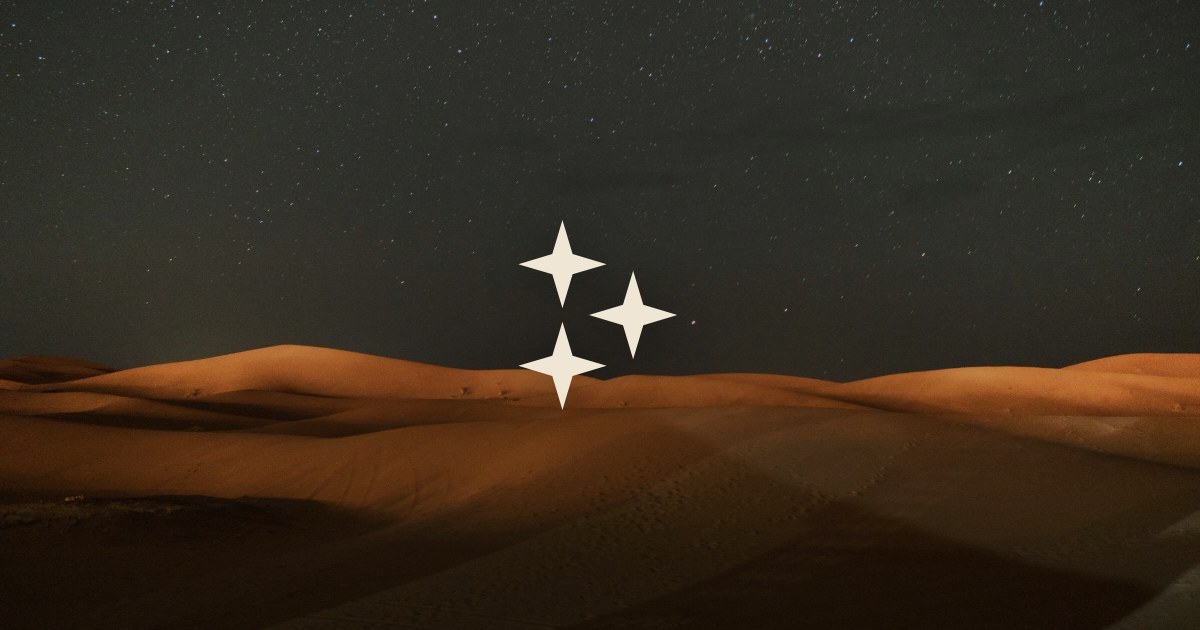
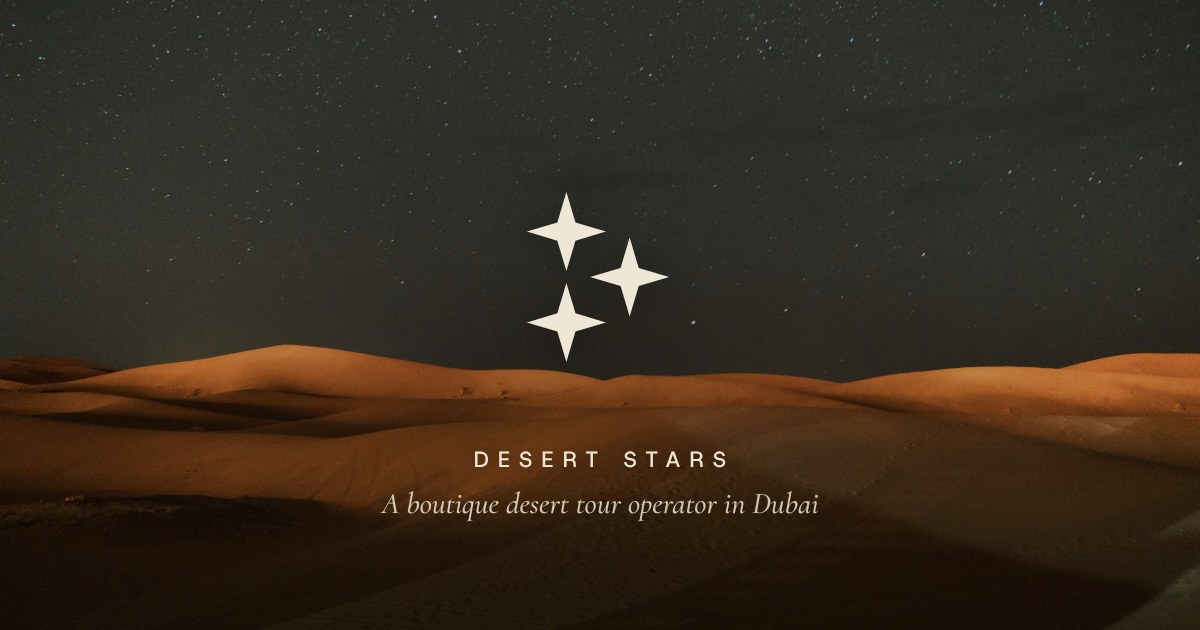
Menu rebuilt, WhatsApp removed, cycling hero headline, boutique share copy
- Menu is a client component: closes on link, Esc and route change; locks page scroll; smaller type so every item fits
- WhatsApp removed from header, contact links, enquiry form, tour pages and legal copy
- Hero headline cycles: Desert Stars, Born in the dunes, Local boutique, Desert tour operator...
- Title, description and share image use 'boutique desert tour operator'

Claude-Session: https://claude.ai/code/session_016tmrtv4VSJkVzpbkbBxgW5

diff --git a/components/concepts/v4/Chrome.tsx b/components/concepts/v4/Chrome.tsx
@@ -1,7 +1,8 @@
 import Link from "next/link";
 import { Host_Grotesk, VT323, Cormorant_Garamond } from "next/font/google";
 import Pic from "@/components/Pic";
-import { site, waLink } from "@/data/site";
+import Menu from "./Menu";
+import { site } from "@/data/site";
 
 /* Shared chrome for Variation 4 (homepage + about): fonts, stylesheet, header with MENU overlay,
    staircase steps, sticky centre column, giant contact links and footer. */
@@ -13,7 +14,6 @@ const serif = Cormorant_Garamond({ subsets: ["latin"], weight: ["400", "500"], s
 export const fontVars = `${sans.variable} ${mono.variable} ${serif.variable}`;
 export const shell = `${fontVars} v4 min-h-screen overflow-x-clip bg-[#0c0a08] font-[family-name:var(--v4-sans)] text-[#efe6d6] antialiased selection:bg-[#efe6d6] selection:text-[#0c0a08]`;
 export const pad = "px-5 md:px-10";
-export const wa = waLink("Hello Desert Stars, I'd like to plan an evening in the desert.");
 
 export function V4Style() {
   return (
@@ -28,7 +28,7 @@ export function V4Style() {
         .v4 .v4-link { background-image: linear-gradient(currentColor, currentColor); background-size: 0% 1px; background-position: 0 100%; background-repeat: no-repeat; transition: background-size .5s cubic-bezier(.16,1,.3,1); }
         .v4 .v4-link:hover, .v4 .v4-link:focus-visible { background-size: 100% 1px; }
         .v4 .v4-head { mix-blend-mode: difference; }
-        .v4 .v4-head:has(details[open]) { mix-blend-mode: normal; }
+        .menu-open .v4 .v4-head, .v4 .v4-head:has([aria-expanded="true"]) { mix-blend-mode: normal; }
         .v4 details > summary { list-style: none; }
         .v4 details > summary::-webkit-details-marker { display: none; }
         .v4 details[open] .v4-closed, .v4 details:not([open]) .v4-opened { display: none; }
@@ -65,38 +65,13 @@ export function V4Style() {
   );
 }
 
-const menu: [string, string][] = [
-  ["Home", "/"],
-  ["Experiences", "/experiences"],
-  ["Desert safaris", "/experiences#desert"],
-  ["Journal", "/journal"],
-  ["About", "/about"],
-  ["Enquire", "/enquire"],
-];
 
 /* ── M1 Header + full-screen MENU ─────────────────────── */
 export function Header() {
   return (
     <header className="v4-head fixed inset-x-0 top-0 z-50 flex items-start justify-between px-5 pt-5 md:px-[27px] md:pt-[26px]">
-      <Link href="/" className="flex items-center gap-3 text-[#efe6d6] transition-opacity hover:opacity-80 md:gap-4" aria-label="Desert Stars, home"><svg viewBox="0 0 37 43" className="h-[34px] w-auto shrink-0 md:h-[44px]" fill="currentColor" aria-hidden="true"><path d="M10 0L12.3 7.7L20 10L12.3 12.3L10 20L7.7 12.3L0 10L7.7 7.7ZM10 23L12.3 30.7L20 33L12.3 35.3L10 43L7.7 35.3L0 33L7.7 30.7ZM26 11.5L28.3 19.2L36 21.5L28.3 23.8L26 31.5L23.7 23.8L16 21.5L23.7 19.2Z" /></svg><span aria-hidden="true" className="h-[26px] w-px bg-[#efe6d6]/60 md:h-[32px]" /><span className="whitespace-nowrap font-[family-name:var(--v4-sans)] text-[12px] font-medium uppercase leading-none tracking-[0.32em] md:text-[15px] md:tracking-[0.36em]">Desert Stars</span></Link>
-      <div className="flex items-start gap-2">
-        <a href={wa} target="_blank" rel="noopener noreferrer" className="v4-m v4-box hover:opacity-80">{"{WhatsApp}"}</a>
-        <details>
-          <summary className="v4-m v4-box relative z-10 cursor-pointer"><span className="v4-closed">Menu</span><span className="v4-opened">Close</span></summary>
-          <div className="fixed inset-0 flex flex-col justify-between overflow-y-auto bg-[#0c0a08] px-5 pb-8 pt-24 text-[#efe6d6] md:px-10">
-            <nav aria-label="Menu" className="flex flex-col">
-              {menu.map(([l, h]) => (
-                <Link key={h} href={h} className="v4-g text-[#efe6d6]/45 transition-colors hover:text-[#efe6d6]">{l}</Link>
-              ))}
-            </nav>
-            <div className="v4-m mt-10 flex flex-wrap justify-between gap-4 text-[15px]">
-              <a href={site.phoneHref} className="v4-link">{site.phone}</a>
-              <a href={`mailto:${site.email}`} className="v4-link">{site.email}</a>
-              <span>{site.hours}</span>
-            </div>
-          </div>
-        </details>
-      </div>
+      <Link href="/" className="relative z-[60] flex items-center gap-3 text-[#efe6d6] transition-opacity hover:opacity-80 md:gap-4" aria-label="Desert Stars, home"><svg viewBox="0 0 37 43" className="h-[34px] w-auto shrink-0 md:h-[44px]" fill="currentColor" aria-hidden="true"><path d="M10 0L12.3 7.7L20 10L12.3 12.3L10 20L7.7 12.3L0 10L7.7 7.7ZM10 23L12.3 30.7L20 33L12.3 35.3L10 43L7.7 35.3L0 33L7.7 30.7ZM26 11.5L28.3 19.2L36 21.5L28.3 23.8L26 31.5L23.7 23.8L16 21.5L23.7 19.2Z" /></svg><span aria-hidden="true" className="h-[26px] w-px bg-[#efe6d6]/60 md:h-[32px]" /><span className="whitespace-nowrap font-[family-name:var(--v4-sans)] text-[12px] font-medium uppercase leading-none tracking-[0.32em] md:text-[15px] md:tracking-[0.36em]">Desert Stars</span></Link>
+      <Menu />
     </header>
   );
 }
@@ -175,7 +150,6 @@ export function Column({ id, label, count, items, discover = "/experiences", dis
 
 /* ── M11 Giant stacked contact links ──────────────────── */
 const giant = [
-  { label: "WhatsApp", href: wa, note: "Reply within 30 min", ext: true },
   { label: "Call", href: site.phoneHref, note: site.phone, ext: false },
   { label: "Email", href: `mailto:${site.email}`, note: site.email, ext: false },
   { label: "Enquire", href: "/enquire", note: "Plan your date", ext: false },

diff --git a/components/EnquiryForm.tsx b/components/EnquiryForm.tsx
@@ -9,7 +9,7 @@ const btn = "v4-m inline-flex h-[52px] items-center px-5 text-[19px] transition-
 
 export default function EnquiryForm() {
   const [exp, setExp] = useState("");
-  const [sent, setSent] = useState<"" | "wa" | "mail">("");
+  const [sent, setSent] = useState(false);
   const ref = useRef<HTMLFormElement>(null);
   useEffect(() => {
     const s = new URLSearchParams(window.location.search).get("experience");
@@ -30,19 +30,16 @@ export default function EnquiryForm() {
     ].filter(Boolean).join("\n");
   }
 
-  function send(via: "wa" | "mail") {
+  function send() {
     const form = ref.current;
     if (!form || !form.reportValidity()) return;
     const body = compose(form);
-    const url = via === "wa"
-      ? `https://wa.me/${site.whatsapp}?text=${encodeURIComponent(body)}`
-      : `mailto:${site.email}?subject=${encodeURIComponent("Desert Stars enquiry")}&body=${encodeURIComponent(body)}`;
-    setSent(via);
-    window.open(url, via === "wa" ? "_blank" : "_self");
+    setSent(true);
+    window.location.href = `mailto:${site.email}?subject=${encodeURIComponent("Desert Stars enquiry")}&body=${encodeURIComponent(body)}`;
   }
 
   return (
-    <form ref={ref} onSubmit={(e) => { e.preventDefault(); send("wa"); }} className="grid gap-x-8 gap-y-9 sm:grid-cols-2">
+    <form ref={ref} onSubmit={(e) => { e.preventDefault(); send(); }} className="grid gap-x-8 gap-y-9 sm:grid-cols-2">
       <label className="sm:col-span-2"><span className={lab}>Experience</span>
         <select name="experience" value={exp} onChange={(e) => setExp(e.target.value)} className={field}>
           <option value="">Not sure yet, please advise</option>
@@ -60,12 +57,11 @@ export default function EnquiryForm() {
         <textarea name="notes" rows={3} className={field} placeholder="Pick-up area, dietary needs, celebrations" />
       </label>
       <div className="flex flex-wrap gap-2 pt-2 sm:col-span-2">
-        <button type="submit" className={`${btn} bg-[#efe6d6] text-[#0c0a08] hover:bg-[#efe6d6]/85`}>{"{Send on WhatsApp}"}</button>
-        <button type="button" className={`${btn} border border-[#efe6d6]/60 text-[#efe6d6] hover:bg-[#efe6d6] hover:text-[#0c0a08]`} onClick={() => send("mail")}>{"{Send by email}"}</button>
+        <button type="submit" className={`${btn} bg-[#efe6d6] text-[#0c0a08] hover:bg-[#efe6d6]/85`}>{"{Send enquiry}"}</button>
+        <a href={site.phoneHref} className={`${btn} border border-[#efe6d6]/60 text-[#efe6d6] hover:bg-[#efe6d6] hover:text-[#0c0a08]`}>{"{Or call us}"}</a>
       </div>
       <p role="status" aria-live="polite" className="min-h-[1.5em] text-[14px] leading-[1.5] text-[#efe6d6]/80 sm:col-span-2">
-        {sent === "wa" && "WhatsApp is opening with your enquiry. Press send there and we'll reply within 30 minutes."}
-        {sent === "mail" && "Your email app is opening with your enquiry ready to send."}
+        {sent && "Your email app is opening with your enquiry ready to send."}
       </p>
     </form>
   );

diff --git a/app/(site)/experiences/[slug]/page.tsx b/app/(site)/experiences/[slug]/page.tsx
@@ -4,7 +4,7 @@ import { notFound } from "next/navigation";
 import Pic from "@/components/Pic";
 import TourCard from "@/components/TourCard";
 import Split from "@/components/Split";
-import { categories, site, waLink } from "@/data/site";
+import { categories, site } from "@/data/site";
 import { cover, getTour, price, tours } from "@/lib/tours";
 import { pad, Steps } from "@/components/concepts/v4/Chrome";
 
@@ -39,7 +39,6 @@ export default async function TourPage({ params }: { params: Promise<{ slug: str
   const cat = categories.find((c) => c.slug === t.category)!;
   const related = tours.filter((x) => x.category === t.category && x.slug !== t.slug).slice(0, 3);
   const gallery = t.images.filter((im) => im !== cover(t));
-  const msg = `Hello Desert Stars, I'd like to book: ${t.title}. Date: ___ Guests: ___`;
   const facts: [string, string][] = [
     ...(t.child ? [["Children 5 to 11", `AED ${t.child.toLocaleString("en")}`] as [string, string]] : []),
     ["Duration", t.timing],
@@ -156,12 +155,12 @@ export default async function TourPage({ params }: { params: Promise<{ slug: str
                 ))}
               </dl>
               <div className="mt-6 grid gap-2">
-                <a href={waLink(msg)} target="_blank" rel="noopener noreferrer" className="v4-m flex h-[56px] items-center justify-center rounded-[4px] bg-[#1c140d] px-4 text-[17px] text-[#efe6d6] transition-opacity hover:opacity-85">
-                  Reserve on WhatsApp
-                </a>
-                <Link href={`/enquire?experience=${t.slug}`} className="v4-m flex h-[56px] items-center justify-center rounded-[4px] border border-[#1c140d] px-4 text-[17px] transition-colors hover:bg-[#1c140d] hover:text-[#efe6d6]">
-                  Send an enquiry
+                <Link href={`/enquire?experience=${t.slug}`} className="v4-m flex h-[56px] items-center justify-center rounded-[4px] bg-[#1c140d] px-4 text-[17px] text-[#efe6d6] transition-opacity hover:opacity-85">
+                  Reserve this experience
                 </Link>
+                <a href={site.phoneHref} className="v4-m flex h-[56px] items-center justify-center rounded-[4px] border border-[#1c140d] px-4 text-[17px] transition-colors hover:bg-[#1c140d] hover:text-[#efe6d6]">
+                  Call {site.phone}
+                </a>
               </div>
               <p className="mt-5 text-[13px] leading-[1.5] text-[#1c140d]/75">{site.cancellation} {site.response}</p>
             </div>

diff --git a/app/(site)/privacy/page.tsx b/app/(site)/privacy/page.tsx
@@ -11,9 +11,9 @@ export default function Privacy() {
       updated="19 November 2026"
       sections={[
         ["Who we are", [`Desert Stars ("we", "us") arranges desert safaris, cruises and guided tours in the United Arab Emirates. Our office is at ${site.address}. For any privacy question, write to ${site.email}.`]],
-        ["What we collect", ["When you enquire or book, we collect the details you give us: your name, email address, phone or WhatsApp number, travel dates, number of guests, pick-up location, and any notes such as dietary needs or accessibility requirements.", "This website does not use analytics, advertising trackers or social media pixels."]],
+        ["What we collect", ["When you enquire or book, we collect the details you give us: your name, email address, phone number, travel dates, number of guests, pick-up location, and any notes such as dietary needs or accessibility requirements.", "This website does not use analytics, advertising trackers or social media pixels."]],
         ["How we use it", ["We use your details only to answer your enquiry, arrange and confirm your booking, coordinate pick-up with our drivers and guides, and contact you about changes on the day. We do not sell your data or use it for marketing without your consent."]],
-        ["Who we share it with", ["We share only what is needed to deliver your experience: with our drivers, guides, desert camps, cruise operators and attraction ticketing partners. Messages you send on WhatsApp are also processed by WhatsApp under its own privacy terms."]],
+        ["Who we share it with", ["We share only what is needed to deliver your experience: with our drivers, guides, desert camps, cruise operators and attraction ticketing partners."]],
         ["How long we keep it", ["We keep booking records for as long as UAE law requires for accounting purposes, and delete enquiry details that did not lead to a booking within 12 months."]],
         ["Your rights", [`You can ask to see, correct or delete the personal data we hold about you, or withdraw consent at any time, by writing to ${site.email}. We reply within 30 days. This policy follows the UAE Federal Decree-Law No. 45 of 2021 on the Protection of Personal Data.`]],
         ["Security", ["Booking details are kept in access-controlled systems used only by our reservations team."]],

diff --git a/components/concepts/v4/Menu.tsx b/components/concepts/v4/Menu.tsx
@@ -1,0 +1,53 @@
+"use client";
+import Link from "next/link";
+import { useEffect, useState } from "react";
+import { usePathname } from "next/navigation";
+import { setScrollLock } from "@/components/Motion";
+import { site } from "@/data/site";
+
+const menu: [string, string][] = [
+  ["Home", "/"],
+  ["Experiences", "/experiences"],
+  ["Desert safaris", "/experiences#desert"],
+  ["Journal", "/journal"],
+  ["About", "/about"],
+  ["Enquire", "/enquire"],
+];
+
+/** Full-screen menu: opens with MENU, closes with CLOSE, Esc, any link, or a route change. */
+export default function Menu() {
+  const [open, setOpen] = useState(false);
+  const path = usePathname();
+
+  useEffect(() => setOpen(false), [path]);
+  useEffect(() => {
+    setScrollLock(open);
+    document.documentElement.classList.toggle("menu-open", open);
+    if (!open) return;
+    const onKey = (e: KeyboardEvent) => e.key === "Escape" && setOpen(false);
+    window.addEventListener("keydown", onKey);
+    return () => window.removeEventListener("keydown", onKey);
+  }, [open]);
+  useEffect(() => () => setScrollLock(false), []);
+
+  return (
+    <>
+      <button type="button" aria-expanded={open} aria-controls="site-menu" onClick={() => setOpen((o) => !o)}
+        className="v4-m v4-box relative z-[60] cursor-pointer hover:opacity-80">{open ? "Close" : "Menu"}</button>
+      <div id="site-menu" hidden={!open} data-lenis-prevent
+        className="fixed inset-0 z-[55] flex flex-col justify-between overflow-y-auto overscroll-contain bg-[#0c0a08] px-5 pb-8 pt-24 text-[#efe6d6] md:px-10 md:pt-28">
+        <nav aria-label="Menu" className="flex flex-col gap-1 md:gap-2">
+          {menu.map(([l, h]) => (
+            <Link key={h} href={h} onClick={() => setOpen(false)}
+              className="text-[clamp(38px,9vw,56px)] uppercase leading-[0.92] tracking-[-0.04em] text-[#efe6d6]/45 transition-colors hover:text-[#efe6d6] md:text-[clamp(44px,5.2vw,76px)]">{l}</Link>
+          ))}
+        </nav>
+        <div className="v4-m mt-10 flex flex-wrap justify-between gap-4 text-[15px]">
+          <a href={site.phoneHref} className="v4-link">{site.phone}</a>
+          <a href={`mailto:${site.email}`} className="v4-link">{site.email}</a>
+          <span>{site.hours}</span>
+        </div>
+      </div>
+    </>
+  );
+}

diff --git a/components/concepts/v4/HeroWords.tsx b/components/concepts/v4/HeroWords.tsx
@@ -1,0 +1,43 @@
+"use client";
+import { useEffect, useState } from "react";
+
+/** Giant two-line hero headline that cycles through phrases: each line rises in, holds, then rises out. */
+const PHRASES: [string, string][] = [
+  ["Desert", "Stars"],
+  ["Born in", "the dunes"],
+  ["Local", "boutique"],
+  ["Desert tour", "operator"],
+  ["Private", "evenings"],
+  ["Small", "groups"],
+  ["Door to", "door"],
+];
+const HOLD = 2600;
+
+export default function HeroWords({ className = "" }: { className?: string }) {
+  const [i, setI] = useState(0);
+  useEffect(() => {
+    if (window.matchMedia("(prefers-reduced-motion: reduce)").matches) return;
+    const id = setInterval(() => setI((n) => (n + 1) % PHRASES.length), HOLD);
+    return () => clearInterval(id);
+  }, []);
+  return (
+    <h1 className={className}>
+      <span className="sr-only">Desert Stars, born in the dunes: a local boutique desert tour operator in Dubai</span>
+      <span aria-hidden="true" className="hw grid">
+        {PHRASES.map(([a, b], k) => (
+          <span key={a + b} data-on={k === i ? "1" : k === (i - 1 + PHRASES.length) % PHRASES.length ? "out" : "0"} className="hw-p [grid-area:1/1]">
+            <span className="hw-l"><span className="hw-i">{a}</span></span>
+            <span className="hw-l"><span className="hw-i" style={{ transitionDelay: "120ms" }}>{b}</span></span>
+          </span>
+        ))}
+      </span>
+      <style>{`
+        .hw-l { display: block; overflow: hidden; padding-bottom: .06em; margin-bottom: -.06em; }
+        .hw-i { display: inline-block; transform: translate3d(0, 110%, 0); transition: transform 1s cubic-bezier(.16,1,.3,1); }
+        .hw-p[data-on="1"] .hw-i { transform: none; }
+        .hw-p[data-on="out"] .hw-i { transform: translate3d(0, -110%, 0); transition-duration: .8s; }
+        @media (prefers-reduced-motion: reduce) { .hw-p:not(:first-child) { display: none; } .hw-i { transform: none !important; transition: none; } }
+      `}</style>
+    </h1>
+  );
+}

diff --git a/app/page.tsx b/app/page.tsx
@@ -1,11 +1,12 @@
 import Pic from "@/components/Pic";
+import HeroWords from "@/components/concepts/v4/HeroWords";
 import Split from "@/components/Split";
 import TripPanels from "@/components/TripPanels";
 import { tours, getTour, price } from "@/lib/tours";
 import { site } from "@/data/site";
 import { shell, pad, V4Style, Header, Footer, Steps, StepChips, Column, GiantLinks } from "@/components/concepts/v4/Chrome";
 
-export const metadata = { title: { absolute: "Desert Stars | Luxury Desert Safaris & Emirates Journeys" } };
+export const metadata = { title: { absolute: "Desert Stars | Boutique Desert Tour Operator in Dubai" } };
 
 /* ── Data ─────────────────────────────────────────────── */
 function pick(slug: string, img: string, label?: string) {
@@ -69,10 +70,7 @@ export default function Page() {
           <div className="sticky top-0 h-svh overflow-hidden">
             <div className="kenburns absolute inset-0"><Pic name="dunes-starry-night" alt="Red dunes lit at night under a sky full of stars" sizes="100vw" /></div>
             <div className="absolute inset-0 bg-gradient-to-b from-[#0c0a08]/55 via-[#0c0a08]/15 to-[#0c0a08]/35" />
-            <h1 className="v4-fade v4-g absolute inset-x-0 top-[64px] text-center md:top-[26px]">
-              <span className="block"><Split>Born in</Split></span>
-              <span className="block"><Split delay={140}>the dunes</Split></span>
-            </h1>
+            <HeroWords className="v4-fade v4-g absolute inset-x-0 top-[78px] text-center md:top-[26px]" />
             <div className="v4-card shadow-[0_30px_80px_-30px_rgba(0,0,0,.6)]">
               <div className="h-full w-full"><Pic name="camp-lanterns" alt="A lantern-lit Bedouin camp at dusk" sizes="100vw" priority /></div>
               <div className="v4-tint absolute inset-0 bg-[#0c0a08]/50" />

diff --git a/app/(site)/enquire/page.tsx b/app/(site)/enquire/page.tsx
@@ -1,7 +1,7 @@
 import type { Metadata } from "next";
 import PageHead from "@/components/PageHead";
 import EnquiryForm from "@/components/EnquiryForm";
-import { Steps, GiantLinks, wa } from "@/components/concepts/v4/Chrome";
+import { Steps, GiantLinks } from "@/components/concepts/v4/Chrome";
 import { site } from "@/data/site";
 
 export const metadata: Metadata = { title: "Enquire", description: "Plan a desert safari, dhow cruise or city journey with Desert Stars." };
@@ -9,7 +9,6 @@ export const metadata: Metadata = { title: "Enquire", description: "Plan a deser
 type Fact = { k: string; v: string; href?: string; ext?: boolean; sub?: React.ReactNode };
 const facts: Fact[] = [
   { k: "Call", v: site.phone, href: site.phoneHref },
-  { k: "WhatsApp", v: site.phone, href: wa, ext: true },
   { k: "Email", v: site.email, href: `mailto:${site.email}` },
   { k: "Office", v: site.address, sub: <a href={site.mapUrl} target="_blank" rel="noopener noreferrer" className="v4-m v4-link text-[15px]">Open in Google Maps ↗</a> },
   { k: "Hours", v: site.hours },
@@ -51,7 +50,7 @@ export default function Enquire() {
           <div>
             <p className="text-[34px] uppercase leading-[0.9] tracking-[-0.04em] md:text-[clamp(40px,4.4vw,64px)]">Tell us<br />your date</p>
             <p className="v4-i mt-4 text-[24px] leading-[1.1] text-[#efe6d6]/85 md:text-[28px]">and we will plan the rest.</p>
-            <p className="mt-6 max-w-[38ch] text-[15px] leading-[1.6] text-[#efe6d6]/75">Your message opens ready to send in WhatsApp or your email app. {site.cancellation}</p>
+            <p className="mt-6 max-w-[38ch] text-[15px] leading-[1.6] text-[#efe6d6]/75">Your message opens ready to send in your email app. {site.cancellation}</p>
           </div>
           <EnquiryForm />
         </div>

diff --git a/app/about/page.tsx b/app/about/page.tsx
@@ -3,7 +3,7 @@ import Pic from "@/components/Pic";
 import Split from "@/components/Split";
 import { byCategory, tours } from "@/lib/tours";
 import { site, categories } from "@/data/site";
-import { shell, pad, wa, V4Style, Header, Footer, Steps, StepChips, GiantLinks } from "@/components/concepts/v4/Chrome";
+import { shell, pad, V4Style, Header, Footer, Steps, StepChips, GiantLinks } from "@/components/concepts/v4/Chrome";
 
 export const metadata = { title: "About", description: "Desert Stars is a Dubai tour house for desert safaris, dhow cruises and guided days across the Emirates, founded by Mohammed Namil." };
 
@@ -154,7 +154,7 @@ export default function AboutPage() {
               </div>
               <div className="space-y-5">
                 <p>Full profile coming soon. In the meantime, every message is answered by the concierge team at our One Central office, daily from 08:00 to 22:00 UAE time.</p>
-                <a href={wa} target="_blank" rel="noopener noreferrer" className="v4-m v4-box hover:opacity-80">{"{Write to us}"}</a>
+                <a href="/enquire" className="v4-m v4-box hover:opacity-80">{"{Write to us}"}</a>
               </div>
             </div>
           </div>
@@ -217,7 +217,7 @@ export default function AboutPage() {
             </div>
             <div>
               <dt className="v4-m mb-2 text-[15px] text-[#1c140d]/60">{"{Reach us}"}</dt>
-              <dd><a href={site.phoneHref} className="v4-link">{site.phone}</a> · phone & WhatsApp</dd>
+              <dd><a href={site.phoneHref} className="v4-link">{site.phone}</a></dd>
               <dd className="mt-1"><a href={`mailto:${site.email}`} className="v4-link break-all">{site.email}</a></dd>
             </div>
           </dl>

diff --git a/app/(site)/booking-terms/page.tsx b/app/(site)/booking-terms/page.tsx
@@ -12,7 +12,7 @@ export default function Terms() {
       sections={[
         ["About these terms", [`These terms apply to every experience booked with Desert Stars, ${site.address}. By confirming a booking you accept them. Questions: ${site.email} or ${site.phone}.`]],
         ["Prices", ["Prices are shown in UAE dirhams (AED) per person and include VAT unless stated. Children's prices apply to ages 5 to 11. Add-ons such as quad biking or private transfers are charged on top. We confirm the final price in writing before you pay."]],
-        ["Booking and payment", ["A booking is confirmed once we send written confirmation by WhatsApp or email. Payment terms, including any deposit, are stated in that confirmation."]],
+        ["Booking and payment", ["A booking is confirmed once we send written confirmation by email. Payment terms, including any deposit, are stated in that confirmation."]],
         ["Cancellation by you", ["Cancel free of charge up to 24 hours before the scheduled pick-up time. Cancellations within 24 hours, and no-shows, are charged in full. Timed attraction tickets, such as Burj Khalifa At the Top, may be non-refundable once issued; we tell you before booking."]],
         ["Changes and cancellation by us", ["Desert activities depend on weather and safety. If we cancel because of sandstorms, extreme heat, rain or official restrictions, we offer another date or a full refund. Pick-up times may shift by up to 30 minutes; we tell you as early as possible."]],
         ["Pick-up", ["Pick-up is included from hotels and residences within Dubai city limits unless stated. Please be ready in the lobby at the confirmed time. We can wait up to 10 minutes on shared tours before departing."]],

diff --git a/data/site.ts b/data/site.ts
@@ -1,12 +1,11 @@
 export const site = {
   name: "Desert Stars",
-  tagline: "Private desert safaris and Emirates journeys",
+  tagline: "Boutique desert tour operator in Dubai",
   description:
-    "Desert Stars is a Dubai tour house for desert safaris, dhow cruises and guided days across the Emirates: Dubai, Abu Dhabi, Al Ain and Sharjah.",
+    "Desert Stars is a local boutique desert tour operator in Dubai: private desert evenings, dhow cruises and guided days across the Emirates.",
   url: "https://desertstars.tourground.com",
   phone: "+971 52 829 1432",
   phoneHref: "tel:+971528291432",
-  whatsapp: "971528291432",
   email: "desertstars@tourground.com",
   address: "Office 4, One Central, Trade Centre, Dubai, United Arab Emirates",
   mapUrl:
@@ -18,13 +17,10 @@ export const site = {
     { value: "11,000+", label: "Guests hosted" },
     { value: "3,000+", label: "Journeys completed" },
     { value: "16", label: "Signature experiences" },
-    { value: "24/7", label: "WhatsApp concierge" },
+    { value: "24/7", label: "Concierge" },
   ],
 };
 
-export function waLink(message: string) {
-  return `https://wa.me/${site.whatsapp}?text=${encodeURIComponent(message)}`;
-}
 
 export const categories = [
   {

diff --git a/app/(site)/cookies/page.tsx b/app/(site)/cookies/page.tsx
@@ -12,7 +12,7 @@ export default function Cookies() {
       sections={[
         ["Our approach", ["The Desert Stars website does not set any cookies. We use no analytics, advertising or tracking tools, so there is no cookie banner to accept."]],
         ["Fonts and images", ["Our fonts and images are served from this website itself, so loading a page does not send your data to third-party font or image services."]],
-        ["Links to other services", ["When you choose to contact us on WhatsApp or open our office in Google Maps, those services may set their own cookies under their own policies."]],
+        ["Links to other services", ["When you open our office in Google Maps, that service may set their own cookies under their own policies."]],
         ["Contact", [`Questions about this policy: ${site.email}, ${site.address}.`]],
       ]}
     />
